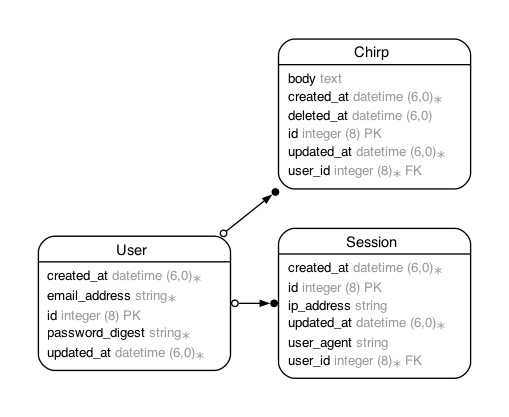
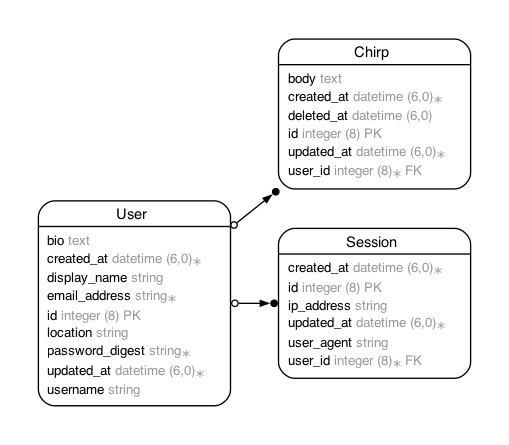
Updated user profile page and edit form with new fields

Changed region(s): [[0.0589, 0.0624, 0.943, 0.9353], [0.442, 0.4988, 0.943, 0.9353]]

diff --git a/db/schema.rb b/db/schema.rb
@@ -10,7 +10,7 @@
 #
 # It's strongly recommended that you check this file into your version control system.
 
-ActiveRecord::Schema[8.0].define(version: 2025_09_04_201134) do
+ActiveRecord::Schema[8.0].define(version: 2025_10_02_193958) do
   # These are extensions that must be enabled in order to support this database
   enable_extension "pg_catalog.plpgsql"
 
@@ -179,7 +179,12 @@ ActiveRecord::Schema[8.0].define(version: 2025_09_04_201134) do
     t.string "password_digest", null: false
     t.datetime "created_at", null: false
     t.datetime "updated_at", null: false
+    t.string "username"
+    t.string "display_name"
+    t.string "location"
+    t.text "bio"
     t.index ["email_address"], name: "index_users_on_email_address", unique: true
+    t.index ["username"], name: "index_users_on_username", unique: true
   end
 
   add_foreign_key "chirps", "users"

diff --git a/app/models/user.rb b/app/models/user.rb
@@ -3,18 +3,26 @@
 # Table name: users
 #
 #  id              :bigint           not null, primary key
+#  bio             :text
+#  display_name    :string
 #  email_address   :string           not null
+#  location        :string
 #  password_digest :string           not null
+#  username        :string
 #  created_at      :datetime         not null
 #  updated_at      :datetime         not null
 #
 # Indexes
 #
 #  index_users_on_email_address  (email_address) UNIQUE
+#  index_users_on_username       (username) UNIQUE
 #
 class User < ApplicationRecord
   has_secure_password
   has_many :sessions, dependent: :destroy
 
   normalizes :email_address, with: ->(email_address) { email_address.strip.downcase }
+
+  validates :username, presence: true, uniqueness: true
+  validates :display_name, presence: true
 end

diff --git a/app/controllers/users_controller.rb b/app/controllers/users_controller.rb
@@ -20,8 +20,21 @@ class UsersController < ApplicationController
     end
   end
 
-  def update; end
+  def update
+    @user = User.where({ :id => params.fetch(:id) }).at(0)
+    if @user.update(user_params)
+      redirect_to(user_path(@user), notice: "Updated user profile")
+    else
+      render :edit, alert: "Something went wrong when saving"
+    end
+  end
 
   # TODO
   def destroy; end
+
+  private
+
+  def user_params
+    params.expect(user: [ :username, :bio, :display_name, :location ])
+  end
 end

diff --git a/db/migrate/20251002193958_add_profile_fields_to_users.rb b/db/migrate/20251002193958_add_profile_fields_to_users.rb
@@ -1,0 +1,9 @@
+class AddProfileFieldsToUsers < ActiveRecord::Migration[8.0]
+  def change
+    add_column :users, :username, :string
+    add_index :users, :username, unique: true
+    add_column :users, :display_name, :string
+    add_column :users, :location, :string
+    add_column :users, :bio, :text
+  end
+end
